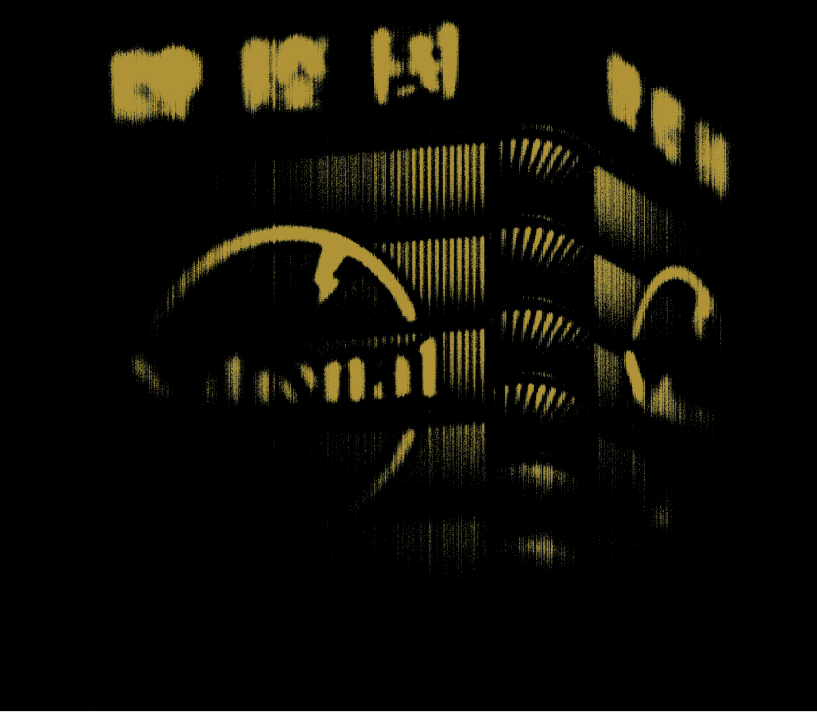
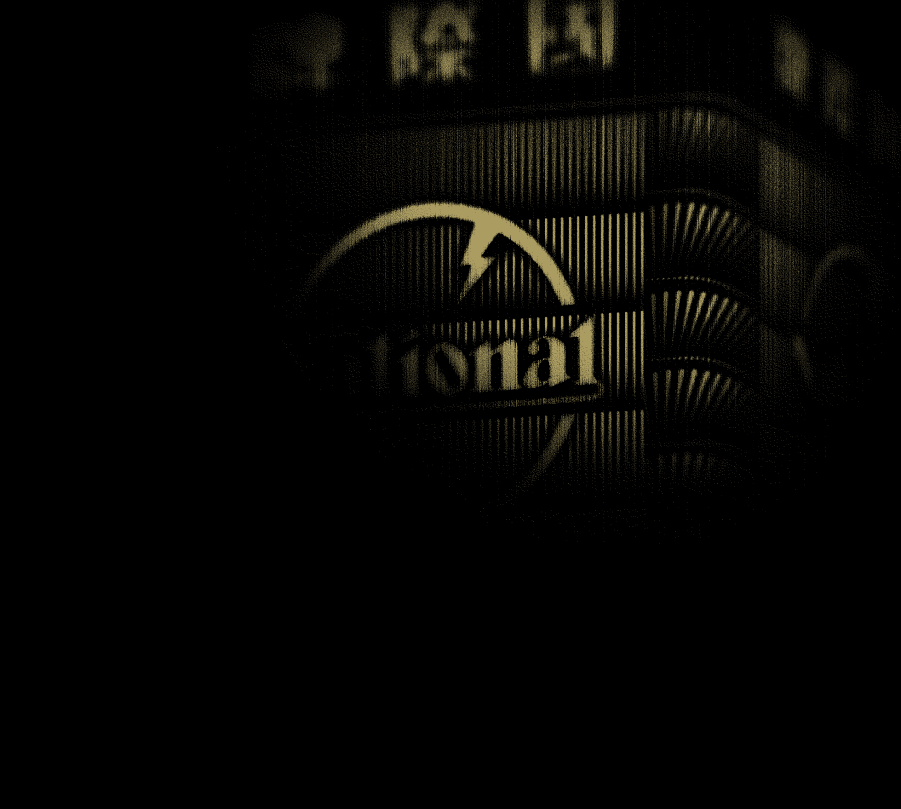
update front page background, mobile css.

diff --git a/components/leadership.js b/components/leadership.js
@@ -38,13 +38,18 @@ const Leadership = ({ leadership: dataset, fullpageApi, leadership_doc }) => {
 
   return (
     <>
-      <Box ml={{ xs: 8, md: 22 }} mr={{ xs: 2, md: 13 }} mt={{ xs: 5, md: 13 }}>
+      <Box
+        ml={{ xs: 8, md: 22 }}
+        mr={{ xs: 2, md: 13 }}
+        mt={{ xs: 6, md: 13 }}
+        mb={1}
+      >
         <Box>
           <Stack
             direction={{ xs: "column", md: "row" }}
-            spacing={{ xs: 6, md: 1 }}
+            spacing={{ xs: 4, md: 1 }}
           >
-            <Item sx={{ width: { md: "60vw", md: "20vw" } }}>
+            <Item sx={{ width: { xs: "60vw", md: "20vw" } }}>
               <Box
                 sx={{
                   whiteSpace: "pre-line",
@@ -67,7 +72,7 @@ const Leadership = ({ leadership: dataset, fullpageApi, leadership_doc }) => {
                   //in order to make element can scroll normally, give element a specific height.
 
                   width: { xs: "80vw", md: "60vw" },
-                  height: { xs: "33vh", md: "408px" },
+                  height: { xs: "35vh", md: "418px" },
                   overflow: "scroll",
                   paddingRight: "60px",
                 }}
@@ -78,7 +83,7 @@ const Leadership = ({ leadership: dataset, fullpageApi, leadership_doc }) => {
                   boardMembers.map((boardMember) => (
                     <Box
                       key={boardMember.id}
-                      mb={{ xs: 6, md: 2 }}
+                      mb={{ xs: 4, md: 2 }}
                       sx={{
                         height: { xs: "auto", md: "120px" },
                         //maxHeight: { xs: "80px", md: "120px" },
@@ -114,7 +119,7 @@ const Leadership = ({ leadership: dataset, fullpageApi, leadership_doc }) => {
           sx={{
             display: "flex",
             justifyContent: { xs: "flex-start", md: "flex-end" },
-            marginTop: { xs: "13vh", md: "13vh", xl: "18vh" },
+            marginTop: { xs: "6vh", md: "10vh", xl: "16vh" },
           }}
         >
           <Stack

diff --git a/components/news.js b/components/news.js
@@ -258,12 +258,18 @@ export default function News({ news: dataset, newsAnnounce: dataset2 }) {
                 sx={{ width: "100vw" }}
                 //className={styles.slideBg}
               >
-                <Box className={styles.slideBg} sx={{ height: "43vh" }}>
+                <Box className={styles.slideBg} sx={{ height: "38vh" }}>
                   <Stack direction="column" spacing={1}>
                     <Item>
                       <Box sx={{ fontSize: 21, fontWeight: 700 }}>
-                        <Box>{news.start_date}</Box>
-                        <Box>{news.end_date && `-` + news.end_date}</Box>
+                        <Box component="span">
+                          {format(new Date(news.start_date), "yyyy.MM.dd")}
+                        </Box>
+                        <Box component="span">{news.end_date && ` - `}</Box>
+                        <Box>
+                          {news.end_date &&
+                            format(new Date(news.end_date), "yyyy.MM.dd")}
+                        </Box>
                       </Box>
                     </Item>
                     <Item>

diff --git a/components/sponsorship.js b/components/sponsorship.js
@@ -385,7 +385,7 @@ const Sponsorship = ({ sponsorship: datasetS }) => {
                     style={{ fontSize: 15, fontWeight: 700 }}
                     x={200}
                     y={220}
-                    text="總比例贊助"
+                    text="贊助概覽"
                   />
                 </svg>
               </Box>
@@ -561,7 +561,7 @@ const Sponsorship = ({ sponsorship: datasetS }) => {
                   style={{ fontSize: 23, fontWeight: 700 }}
                   x={180}
                   y={420}
-                  text="總比例贊助"
+                  text="贊助概覽"
                 />
               </svg>
             </Box>

diff --git a/components/projects.js b/components/projects.js
@@ -498,9 +498,9 @@ const Projects = ({ projects: dataset, fullpageApi }) => {
                     </Box>
                     <Box sx={{ fontSize: 18, mb: 1 }}>{project.title_tw}</Box>
                     <Box
-                      mb={3}
+                      mb={2}
                       sx={{
-                        height: 28,
+                        height: 24,
                         backgroundImage:
                           "linear-gradient(90deg, #000000 0%, rgba(0, 0, 0, 0.63) 51.56%, rgba(0, 0, 0, 0.15) 81.25%, rgba(0, 0, 0, 0) 100%)",
                       }}

diff --git a/pages/index.js b/pages/index.js
@@ -75,8 +75,8 @@ function Index({ summary, contact }) {
             width: { xs: "100vw", md: "50vw" },
             height: { xs: "100vw", md: "50vw" },
             position: "absolute",
-            top: { xs: "8vh", md: "-4vh" },
-            right: 0,
+            top: { xs: "8vh", md: "0px" },
+            right: { xs: "0px", md: "50px" },
             zIndex: 0,
           }}
         >

diff --git a/components/events.js b/components/events.js
@@ -44,6 +44,7 @@ const Events = ({ events: dataset }) => {
                       textAlign: "end",
                       textShadow: "0.2em 0.2em 0.8em #000",
                       whiteSpace: "pre-line",
+                      maxWidth: "78vw",
                     }}
                     className={styles.landingText}
                   >

diff --git a/styles/globals.css b/styles/globals.css
@@ -251,7 +251,7 @@ h3 {
 
   /* MuiTabs Lab  */
   .MuiTabs-flexContainer{
-    display: grid;
+    display: grid !important;
   }
 
   
